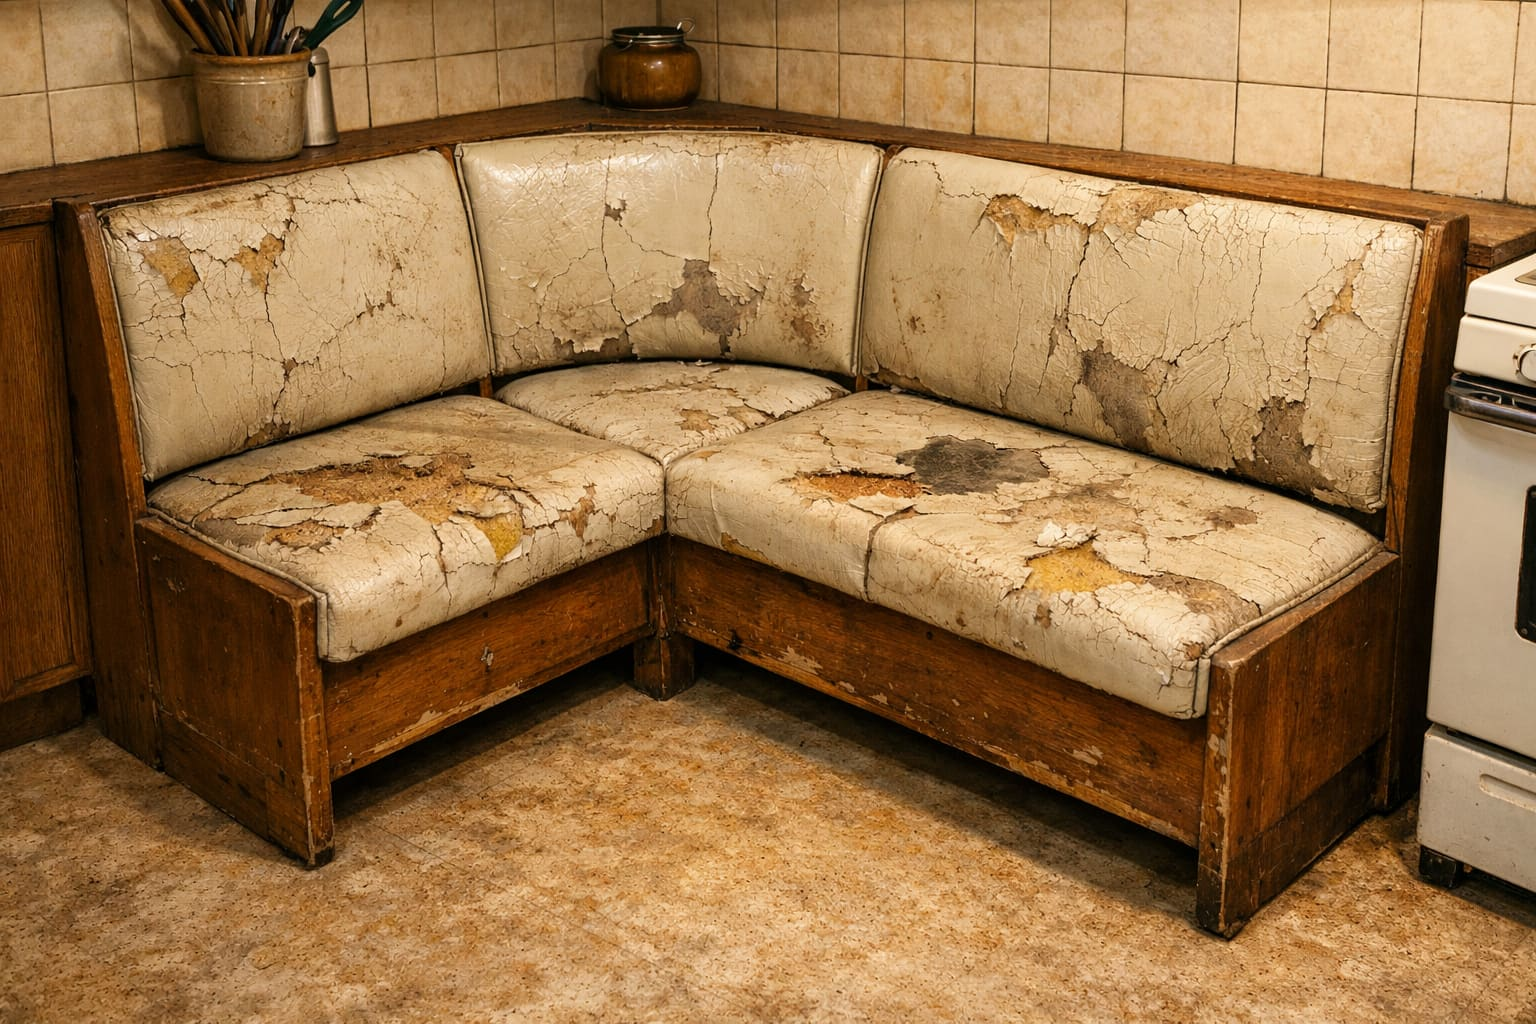
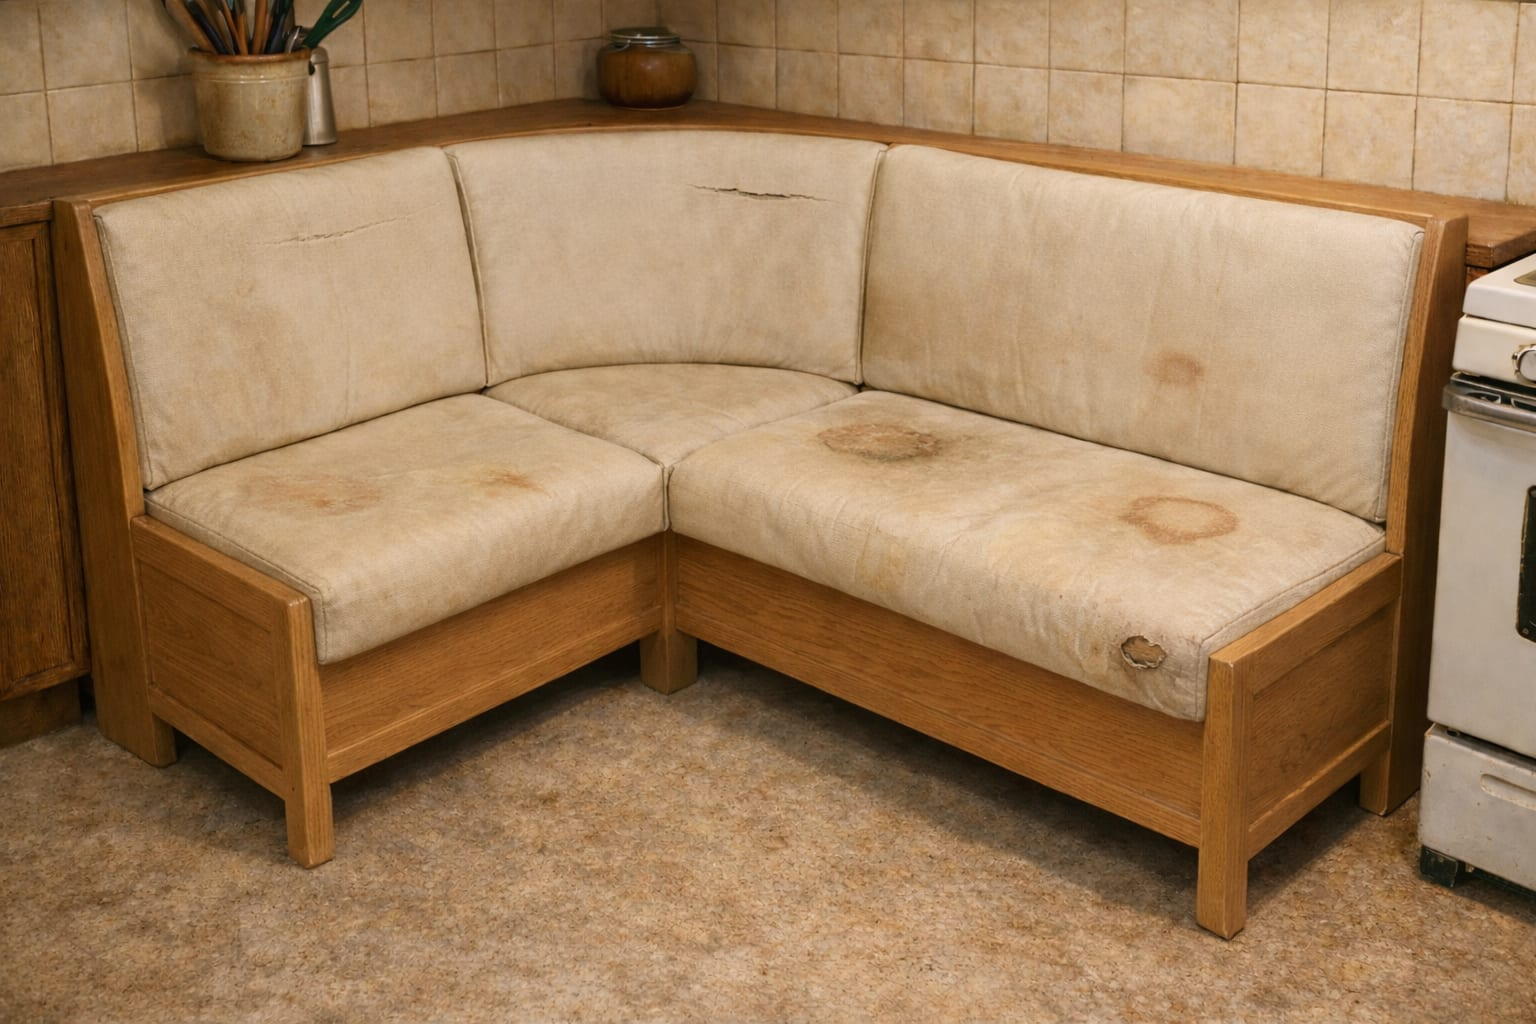
chore(cases): replace case-3 before photo with milder wear variant
The previous case-3-before.jpg was too extreme (catastrophic cracking,
large exposed-foam patches) and read as unsalvageable trash rather than
a realistic reupholstery candidate. Swapped in a new 1536×1024 render
showing 10–15 years of everyday use: yellowed vinyl, 3–4 coffee-ring
stains, small lifted crack on the back cushion, compressed foam — worn
but clearly restorable. Same kitchen background, camera angle, and
wooden frame preserved so the before/after pair still reads as a single
real job.

Also adds playwright.prod.config.ts — the Playwright config used to run
tests/e2e/client-edits.spec.ts against the deployed Vercel URL instead
of spinning up a local webServer.

diff --git a/playwright.prod.config.ts b/playwright.prod.config.ts
@@ -1,0 +1,38 @@
+import { defineConfig, devices } from "@playwright/test";
+
+/**
+ * Playwright config for testing against a remote deployed URL (e.g. Vercel prod).
+ * Usage:  npx playwright test --config=playwright.prod.config.ts
+ * Set PLAYWRIGHT_BASE_URL to override the default https://babaevskaya.vercel.app.
+ */
+const BASE_URL = process.env.PLAYWRIGHT_BASE_URL ?? "https://babaevskaya.vercel.app";
+
+export default defineConfig({
+  testDir: "./tests/e2e",
+  testMatch: ["**/client-edits.spec.ts"],
+  fullyParallel: true,
+  retries: 1,
+  workers: 4,
+  reporter: [["list"]],
+  timeout: 60_000,
+  expect: { timeout: 10_000 },
+  use: {
+    baseURL: BASE_URL,
+    trace: "retain-on-failure",
+    video: "retain-on-failure",
+    screenshot: "only-on-failure",
+    actionTimeout: 15_000,
+    navigationTimeout: 30_000,
+    locale: "ru-RU",
+    timezoneId: "Europe/Moscow",
+  },
+  projects: [
+    { name: "Mobile Chrome", use: { ...devices["Pixel 5"] } },
+    { name: "Mobile Safari", use: { ...devices["iPhone 13"] } },
+    {
+      name: "Desktop Chrome",
+      use: { ...devices["Desktop Chrome"], viewport: { width: 1440, height: 900 } },
+    },
+  ],
+  // No webServer — we're running against a remote deployment.
+});
